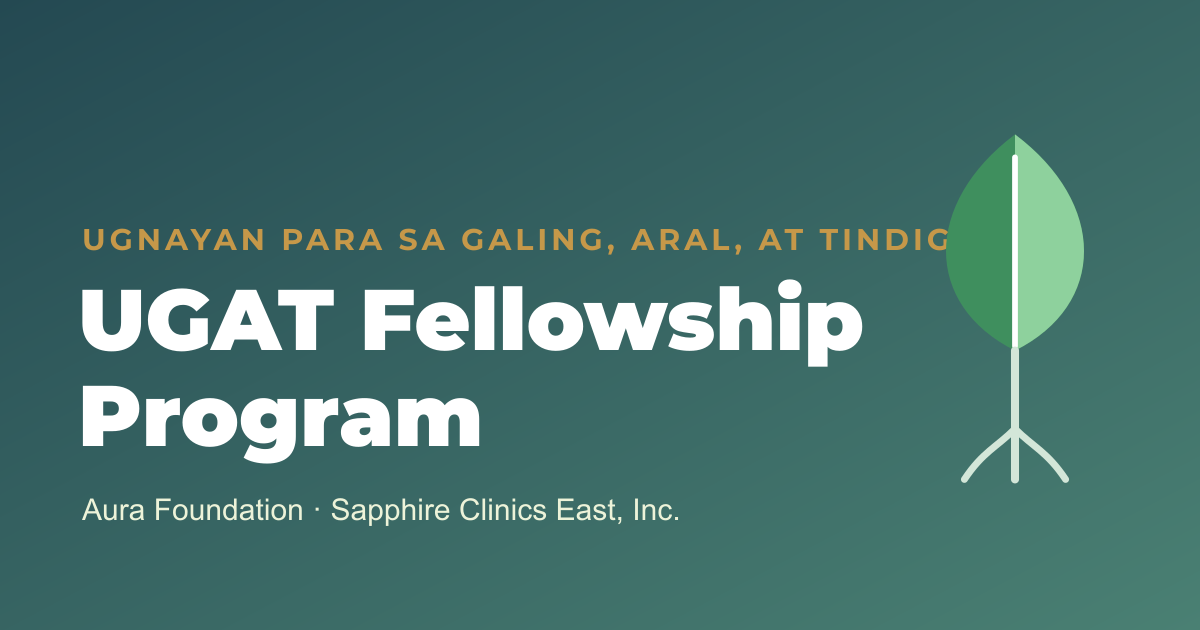
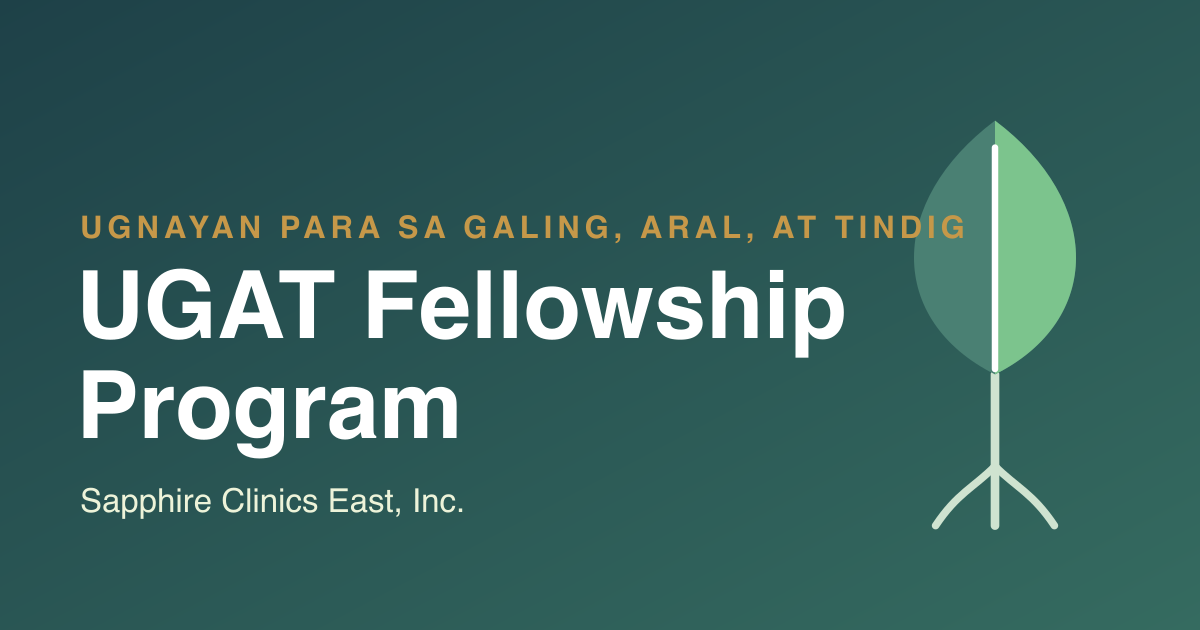
ugatfellow: regenerate OG link-preview image without 'Aura Foundation'
The baked-in subtitle read 'Aura Foundation · Sapphire Clinics East,
Inc.'; regenerated (scripts/gen-ugat-og.js, sharp) to just 'Sapphire
Clinics East, Inc.' Same layout, palette, and living-leaf mark.

Changed region(s): [[0.0617, 0.181, 0.925, 0.8444], [0.0617, 0.754, 0.555, 0.8444]]

diff --git a/scripts/gen-ugat-og.js b/scripts/gen-ugat-og.js
@@ -1,0 +1,37 @@
+const sharp = require('sharp')
+const path = require('path')
+
+const DEEP = '#244952', GREEN = '#4a8073', GOLD = '#c69849', CREAM = '#edf3d9'
+const out = process.argv[2] || '/tmp/og.png'
+
+// 1200x630. Left: kicker + 2-line title + subtitle. Right: living-leaf mark.
+// Leaf geometry mirrors the site LeafMark (leaf above, roots below), scaled up.
+const svg = `<svg width="1200" height="630" viewBox="0 0 1200 630" xmlns="http://www.w3.org/2000/svg">
+  <defs>
+    <linearGradient id="bg" x1="0" y1="0" x2="1" y2="1">
+      <stop offset="0" stop-color="#1e4148"/>
+      <stop offset="1" stop-color="#356b60"/>
+    </linearGradient>
+  </defs>
+  <rect width="1200" height="630" fill="url(#bg)"/>
+
+  <!-- Living-leaf mark on the right -->
+  <g transform="translate(995,315) scale(2.7)">
+    <path d="M0 56 L0 78" fill="none" stroke="#cfe3d0" stroke-width="3.2" stroke-linecap="round"/>
+    <path d="M0 56 C -8 64 -14 66 -22 78" fill="none" stroke="#cfe3d0" stroke-width="2.8" stroke-linecap="round"/>
+    <path d="M0 56 C 8 64 14 66 22 78" fill="none" stroke="#cfe3d0" stroke-width="2.8" stroke-linecap="round"/>
+    <path d="M0 56 L0 22" fill="none" stroke="#cfe3d0" stroke-width="3.2" stroke-linecap="round"/>
+    <path d="M0 -72 C 40 -42 40 2 0 22 C -40 2 -40 -42 0 -72 Z" fill="#4a8073"/>
+    <path d="M0 -72 C 40 -42 40 2 0 22 L0 -72 Z" fill="#7cc48d"/>
+    <line x1="0" y1="20" x2="0" y2="-62" stroke="#ffffff" stroke-width="2.4" stroke-linecap="round"/>
+  </g>
+
+  <text x="80" y="238" font-family="Helvetica, Arial, sans-serif" font-weight="700" font-size="31" letter-spacing="5" fill="${GOLD}">UGNAYAN PARA SA GALING, ARAL, AT TINDIG</text>
+  <text x="76" y="338" font-family="Helvetica, Arial, sans-serif" font-weight="700" font-size="94" fill="#ffffff">UGAT Fellowship</text>
+  <text x="76" y="438" font-family="Helvetica, Arial, sans-serif" font-weight="700" font-size="94" fill="#ffffff">Program</text>
+  <text x="80" y="512" font-family="Helvetica, Arial, sans-serif" font-weight="400" font-size="33" fill="${CREAM}">Sapphire Clinics East, Inc.</text>
+</svg>`
+
+sharp(Buffer.from(svg)).png().toFile(out).then((info) => {
+  console.log('wrote', out, info.width + 'x' + info.height, info.size + ' bytes')
+}).catch((e) => { console.error(e); process.exit(1) })
